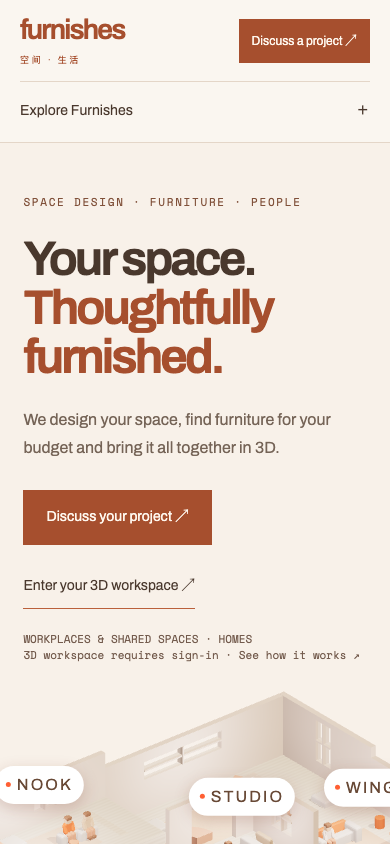
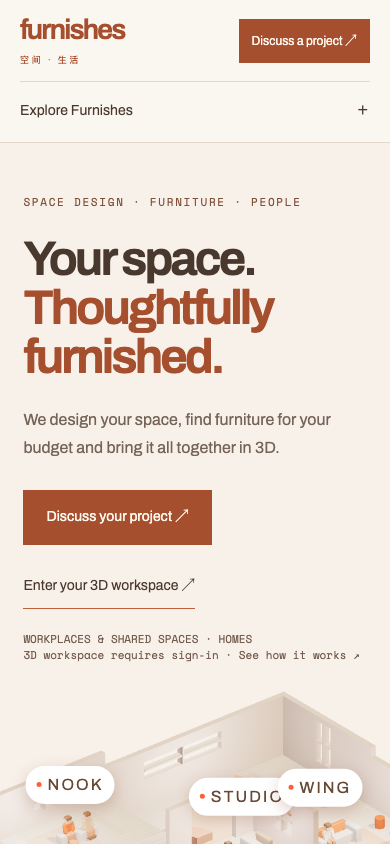
Document final spatial homepage validation and previews

Changed region(s): [[0.7077, 0.8934, 1.0, 0.9858], [0.0, 0.8934, 0.3077, 0.955]]

diff --git a/docs/corporate-refresh/spatial-validation.md b/docs/corporate-refresh/spatial-validation.md
@@ -1,6 +1,6 @@
 # Spatial refresh 验证与交付状态
 
-日期：2026-10-20。当前状态：收尾验证中，最终结果将补充。
+日期：2026-10-20。当前状态：网站设计与代码收尾验证完成；真实供应商交互3D导入仍待源模型导出。
 
 - TypeScript：通过。
 - 改动涉及的React/Three.js页面 ESLint：通过。
@@ -8,15 +8,18 @@
 - 静态浏览器检查：96/96通过；12路由×320/390/430/768/1024/1440/1920/3840像素视口；每页HTTP200、单一h1、无横向溢出、图片解码成功、无运行中的CSS动画；页面错误0。
 - 静态检查附带交互：手机键盘菜单、分支导航、返回首页、询价预填、表单校验、旧入口跳转通过；没有发送邮件。
 - 最新字体统计见typography.md末尾，截图和原始测量见qa/。
-- 完整Playwright回归及隔离生产编译：运行中，稍后补充结果。
+- 完整Playwright回归：9/9通过。最终补查登录目标地址、减少动态效果下缩放重绘及房间操作：2/2通过。
+- 最终源码生产构建：通过（Next.js webpack；TypeScript、70个静态页面生成及构建追踪完成）。使用独立暂存目录，没有占用本地开发目录的构建输出。
+- 最终首屏截图及四尺寸完整首页截图已更新；暂停后窗口变化会重绘，手机房间标签有边缘保护。
+- 构建暂存环境未提供FAL密钥，构建提示相关生成调用不可用；这不影响公开页面编译，也不能作为线上AI已经配置的证据。
 
 ## 未完成与验证边界
 
 1. 真实华桂可交互3D家具：未完成。91个松散MAX及ZIP递归清单均无可直接使用的GLB/glTF/FBX/OBJ。每类3个候选已记录，需3ds Max导出。已接入两张真实供应商渲染图；首页小屋仍是概念场景。
 2. 线上认证、AI调用和项目保存未做端到端测试，没有修改密钥或调用付费AI。
-3. 正式域名的部署仓库/分支绑定未验证，没有推送或上线。
+3. 正式域名的部署仓库/分支绑定未验证。本次收尾没有推送或发布；继续时已有79af387（Rebuilding Frontpage）提交，不能据此推断正式域名已部署该提交。
 4. 视口测试不是iPhone/iPad真实Safari设备测试；动画按用户要求只做静态和状态检查。
 
 ## 交接
 
-完整接续prompt在AI-HANDOFF.md。源代码保留在用户指定demo-commercial-refresh分支，交付时记录提交状态。
+完整接续prompt在AI-HANDOFF.md。源代码位于用户指定demo-commercial-refresh分支；继续工作时已存在提交79af387（Rebuilding Frontpage）。本次仅补齐验证记录与最终截图。预览以http://127.0.0.1:3000启动；本地服务停止后需重新运行。

diff --git a/docs/corporate-refresh/spatial-refresh-plan.md b/docs/corporate-refresh/spatial-refresh-plan.md
@@ -79,7 +79,7 @@ Playground AI 使用 /api/chat，依赖 ANTHROPIC_API_KEY 与 ENABLE_BRAIN_PIPEL
 
 ## 部署
 
-尚未推送，未修改线上部署绑定。仓库内没有证据确认 furnish-es.com 的生产分支；发布前需在实际部署项目中核对。不能仅凭fork关系保证推送不会触发部署。
+本次收尾未推送、未修改线上部署绑定。继续时已有79af387提交；当前部署状态不能仅凭Git提交推断。仓库内没有证据确认 furnish-es.com 的生产分支；发布前需在实际部署项目中核对。不能仅凭fork关系保证推送不会触发部署。
 
 ## 验证
 
